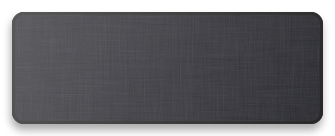
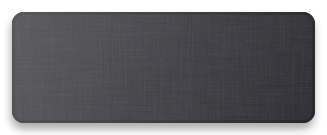
Remove donation request and change back bg image

Changed region(s): [[0.948, 0.0889, 0.9786, 0.1481], [0.948, 0.8593, 0.9786, 0.8889], [0.0306, 0.0889, 0.0612, 0.1185]]

diff --git a/bitcoin-ticker.dcproj/project/widget.wdgt/main.css b/bitcoin-ticker.dcproj/project/widget.wdgt/main.css
@@ -23,17 +23,6 @@ body {
     display: none;
 }
 
-#backImg {
-    position: absolute;
-    display: block;
-    top: 0px;
-    left: 0px;
-    bottom: 0px;
-    right: 0px;
-    width: auto;
-    height: auto;
-}
-
 .black {
     background-color: rgb(54, 54, 54);
     background-image: -webkit-linear-gradient(top, rgb(68, 68, 68), rgb(34, 34, 34));
@@ -75,10 +64,10 @@ body {
 
 #done {
     position: absolute;
-    bottom: 21px;
+    bottom: 26px;
     width: 50px;
     height: 25px;
-    right: 21px;
+    right: 16px;
 }
 
 #done:active {
@@ -237,27 +226,6 @@ body {
     color: white;
 }
 
-#textarea {
-    color: rgb(255, 255, 255);
-    font-family: HelveticaNeue;
-    font-size: 10pt;
-    position: absolute;
-    right: auto;
-    bottom: auto;
-    margin-top: 0px;
-    left: 166px;
-    width: 142px;
-    height: 30px;
-    top: 22px;
-    background-color: rgba(255, 255, 255, 0.246094);
-    border-style: solid;
-    border-color: rgba(0, 0, 0, 0.496094);
-    border-top-left-radius: 5px;
-    border-top-right-radius: 5px;
-    border-bottom-left-radius: 5px;
-    border-bottom-right-radius: 5px;
-}
-
 #sourcePopup {
     -khtml-appearance: none;
     font-size: 12px;
@@ -265,8 +233,8 @@ body {
     width: 182px;
     height: 25px;
     position: absolute;
-    left: 21px;
-    bottom: 21px;
+    left: 23px;
+    bottom: 26px;
 }
 
 #sourceLabel {
@@ -277,17 +245,17 @@ body {
     width: auto;
     height: auto;
     position: absolute;
-    left: 21px;
-    top: 70px;
+    left: 26px;
+    top: 65px;
     margin-top: 0px;
-    color: rgb(227, 227, 227);
+    color: rgb(142, 142, 142);
 }
 
 .selected #sourceLabel {
     color: white;
 }
 
-#image1 {
+#frontImage {
     width: 322px;
     height: 122px;
     position: absolute;
@@ -324,23 +292,31 @@ body {
     min-height: 0px;
 }
 
-#donationLabel {
-    font-size: 12px;
-    font-family: 'Lucida Grande', Arial, sans-serif;
-    text-overflow: ellipsis;
-    overflow: hidden;
-    width: 132px;
-    height: 36px;
+#backImage {
+    width: 322px;
+    height: 122px;
     position: absolute;
-    left: 21px;
-    top: 22px;
+    left: 6px;
+    top: 8px;
+    right: auto;
+    bottom: auto;
     margin-top: 0px;
-    color: rgb(227, 227, 227);
-    text-align: right;
-    padding: 0px;
-    line-height: 16px;
 }
 
-.selected #donationLabel {
-    color: white;
+#inner_image {
+    position: absolute;
+    bottom: 0px;
+    right: 0px;
+    left: 0px;
+    top: 0px;
+    margin: auto;
+    max-width: 100%;
+    max-height: 100%;
+    width: auto;
+    height: auto;
+}
+
+#backImg {
+    width: auto;
+    height: auto;
 }

diff --git a/bitcoin-ticker.dcproj/project/widget.wdgt/main.html b/bitcoin-ticker.dcproj/project/widget.wdgt/main.html
@@ -14,7 +14,7 @@
 </head>
 <body onload="load();" apple-part="com.apple.Dashcode.part.StackLayout">
     <div id="front">
-        <div apple-part="com.apple.Dashcode.part.imageLayout" id="image1" apple-group="image1"><img class="apple-hidden" src="Images/front.png" id="inner_image1" apple-group="image1"></div>
+        <div apple-part="com.apple.Dashcode.part.imageLayout" id="frontImage" apple-group="image1"><img class="apple-hidden" src="Images/front.png" id="inner_image1" apple-group="image1"></div>
         <div class="apple-no-children" id="info" apple-part="com.apple.Dashcode.part.infobutton" apple-default-image-visibility="hidden"></div>
         <div id="buyLabel" apple-part="com.apple.Dashcode.part.text" class="apple-text apple-no-children" apple-default-image-visibility="hidden" apple-text-overflow="ellipsis"></div>
         <div id="sellLabel" apple-part="com.apple.Dashcode.part.text" class="apple-text apple-no-children" apple-default-image-visibility="hidden" apple-text-overflow="ellipsis"></div>
@@ -25,13 +25,11 @@
         <div id="ticker_sell" apple-part="com.apple.Dashcode.part.text" class="apple-text apple-no-children" apple-default-image-visibility="hidden" apple-text-overflow="ellipsis"></div>
     </div>
     <div id="back">
-        <img id="backImg" src="Parts/Images/back.png" alt="" apple-locked="true" apple-part="com.apple.Dashcode.part.backimage" apple-style=" image-radius: 12,12,12,12; image-border: 1; image-border-color: 0.1500,0.1500,0.1500; image-border-width: 3; shadow-include-shadow: 1; shadow-blur: 9.00; shadow-offset: -1.00,-6.00; shadow-color: 0.0000,0.0000,0.0000,0.3333;">
+        <div apple-part="com.apple.Dashcode.part.imageLayout" id="backImage" apple-group="image"><img class="apple-hidden" src="Images/back.png" id="inner_image" apple-group="image"></div>
         <button id="done" onclick="showFront(event)" class="black"></button>
-        <textarea id="textarea" apple-part="com.apple.Dashcode.part.textarea">1HdHdaqmTR2s9VzJeBavEhiHUuxcXPBFqh</textarea>
         <select id="sourcePopup" class="black">
         </select>
         <div id="sourceLabel" apple-part="com.apple.Dashcode.part.text" class="apple-text apple-no-children" apple-default-image-visibility="hidden" apple-text-overflow="ellipsis" apple-style="part-height-dependent: true;part-width-dependent: true;"></div>
-        <div id="donationLabel" apple-part="com.apple.Dashcode.part.text" class="apple-text apple-no-children" apple-default-image-visibility="hidden" apple-text-overflow="ellipsis"></div>
     </div>
 </body>
 </html>

diff --git a/bitcoin-ticker.dcproj/project/widget.wdgt/Parts/setup.js b/bitcoin-ticker.dcproj/project/widget.wdgt/Parts/setup.js
@@ -5,10 +5,10 @@
  code generator otherwise the changes will be lost.
  */
 var dashcodePartSpecs = {
+    "backImage": { "view": "DC.ImageLayout" },
     "buyLabel": { "text": "buy", "view": "DC.Text" },
-    "donationLabel": { "text": "Consider donating to my Bitcoin wallet:", "view": "DC.Text" },
     "done": { "onclick": "showFront", "text": "done" },
-    "image1": { "view": "DC.ImageLayout" },
+    "frontImage": { "view": "DC.ImageLayout" },
     "info": { "backgroundStyle": "white", "creationFunction": "CreateInfoButton", "foregroundStyle": "white", "frontID": "front", "onclick": "showBack" },
     "sellLabel": { "text": "sell", "view": "DC.Text" },
     "sourceLabel": { "text": "Source:", "view": "DC.Text" },
@@ -18,6 +18,7 @@ var dashcodePartSpecs = {
     "ticker_low": { "text": "80.91", "view": "DC.Text" },
     "ticker_sell": { "text": "80.00", "view": "DC.Text" }
 };
+
 
 
 
